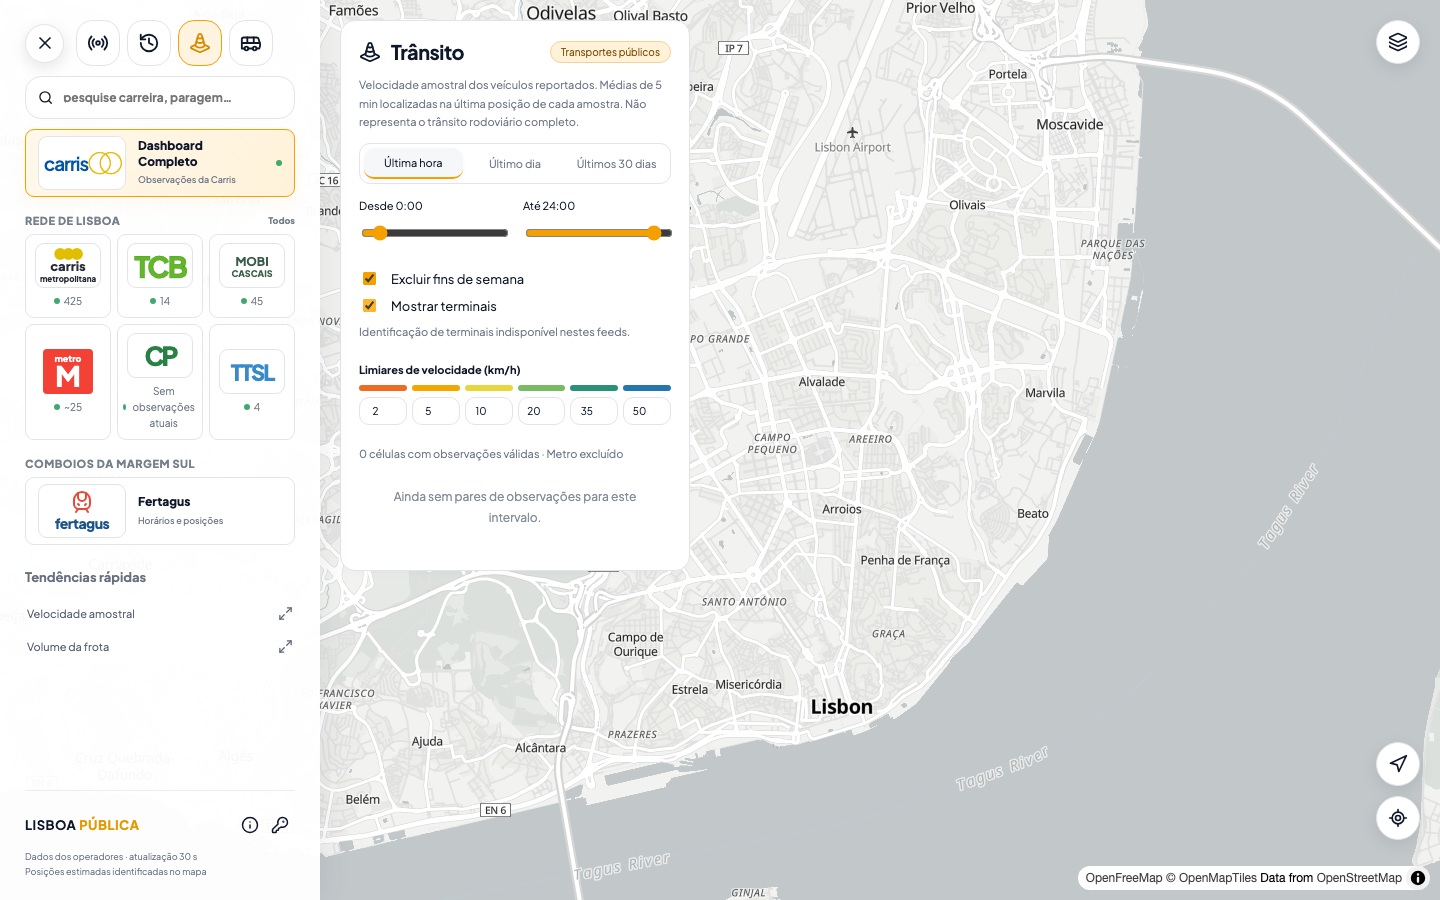
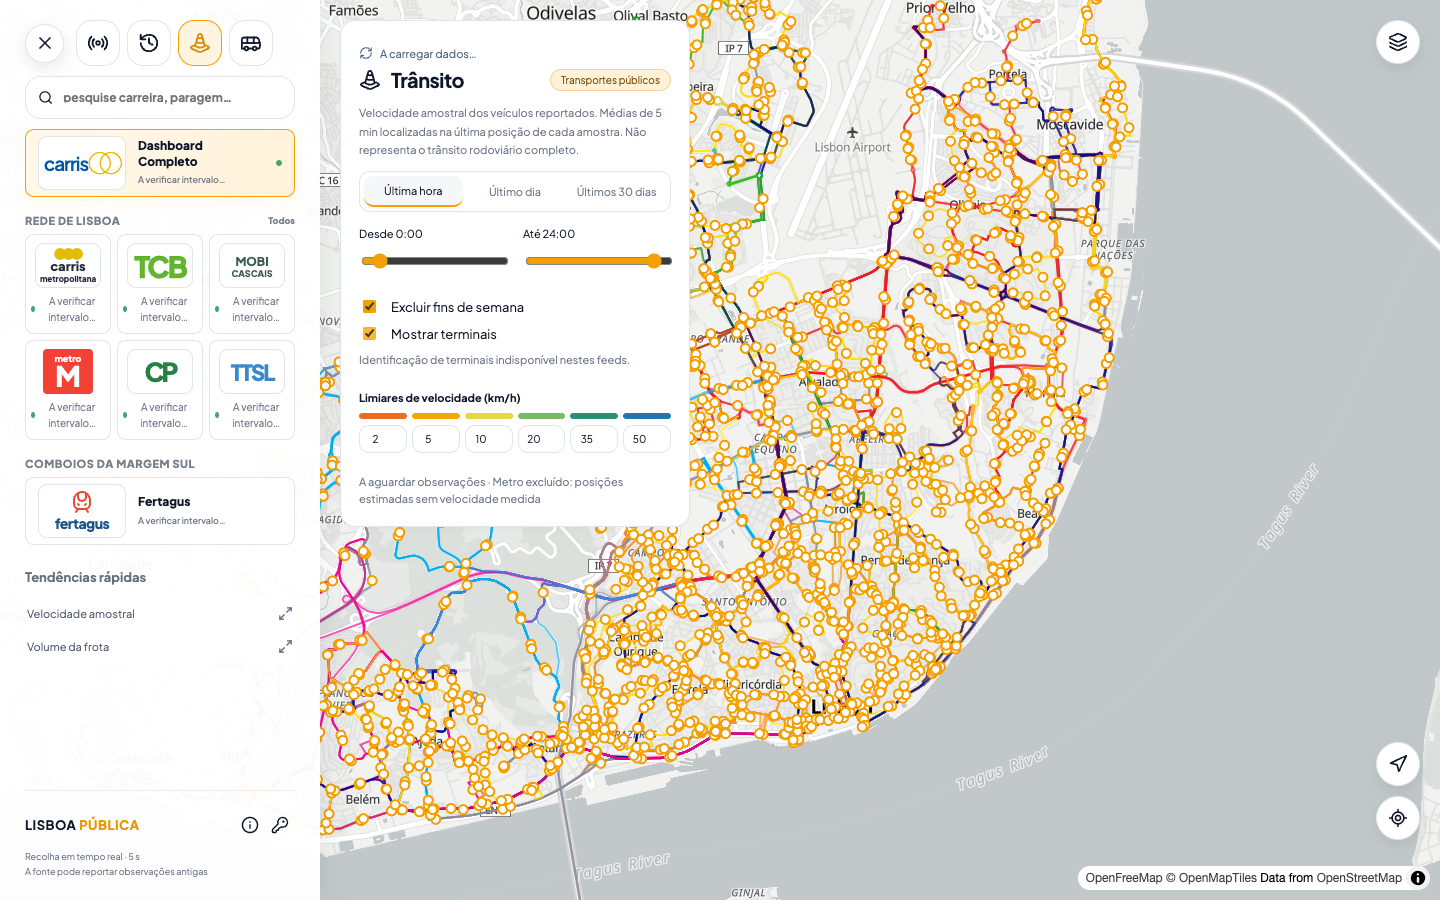
docs: record production availability and fleet acceptance
Motivation: retain reviewable evidence for the deployed defaults, source coverage and five-second collection changes.

Summary: record normal Maat approval, SQL and browser checks, full-source filled-cache memory, naturally finalized fleet metadata, and independent final acceptance; update production screenshots.

diff --git a/docs/VALIDATION.md b/docs/VALIDATION.md
@@ -132,3 +132,20 @@ Latest Postgres full race suite4.729s; Cockroach full race suite98.034s, then fo
 Browser checks are serialized after API health readiness. Early reruns exposed fixture assumptions from the prior disabled-overlay defaults, redundant-fetch expectations despite query-cache reuse, overlapping Playwright artifact directories and starting before cache restoration completed; those test setup issues were corrected. Arrival-window checks wait until initial data arrives before advancing the browser clock; pending initial requests are intentionally reused. Final browser verdict, normal Maat gate and deployment/resource review follow.
 
 Final serialized local browser suite: **13 passed in41.2s**, covering defaults/mode-gated overlays, delayed traffic loading, per-view gray states, raw fleet codes, cold-source/search errors, chart markers, refresh/filter isolation, real dashboard/search/schedule pagination, local scoped-key create/revoke, mobile viewport and advancing Metro arrival requests. All required local checks pass before the normal commit gate.
+
+
+Normal commit gate **passed**, scoped Go80/delta+6, zero critical regressions/suppressions; executable **d1289a6a43098b8c7db9fe9756dea3758dfa88e1** pushed and deployed with the existing Compose/shared Caddy/external verified-TLS Cockroach setup. Main resolved five initial Maat structural findings through cohesive helper extraction. Post-refactor Postgres full race35.748s, affected Cockroach race40.187s and vet passed; independent real quasar-alpha/xhigh review preserved code acceptance.
+
+Controlled full warm refresh: dashboard stopped, eight existing source-health freshness flags aged, image started with retained caches, and all eight official catalogs refreshed12:29:31–12:30:33UTC. Peak1199.5MiB <1280MiB, OOMfalse/restarts0. After over150s of uninterrupted faster publications/filled revision cache, current777.7MiB with the same peak. Public configuration verifies5s live,300s compact history,30days/application5GBguard and collecting. Twelve public API checks returned200, including eight committed operator-coverage rows and verified Metro predictions. Cloud range measurement588,808,092bytes/13750records.
+
+Actual public browser verifies Metro alone initially selected, vehicles/stops/Metro/bus layers all enabled, and Metro traffic operator visibly gray with estimated-position/no-speed explanation. No page errors. Live CM424vehicles include401 model/plate/type/propulsion values; a finalized CMvehicle record carries published typology3/propulsion2 alongside model and plate, with frozen fleet pagination preserved. Historical earlier missing fields remain unknown.
+
+Two initial production desktop runs timed out during screenshot/compositor work with SwiftShader CPU WebGL (60s and120s), while mobile and arrival checks passed and development-auth was skipped. The retry uses bundled full Chromium with ANGLE Metal (Apple M4Max renderer confirmed), the same assertions and original60s per-test limit, serialized. No API/TLS verification or product behavior was bypassed. Final browser result and next closed bucket evidence follow.
+
+
+Final production dashboard suite: **3 passed,1 intentional development-auth skip in30.6s**, with hardware ANGLE Metal and the original60s test limit. Main additionally captured model/type bars after rendering, with no page errors: [model distribution](acceptance/fleet-models.png), [published types](acceptance/fleet-types.png), [Metro traffic availability](acceptance/availability-traffic.png). Default overlays/selection and visible charts are represented in the refreshed desktop/mobile/history/fleet/traffic captures.
+
+The naturally finalized complete CM window **12:30–12:35UTC** contains449 reported vehicles,425 models/plates and424 published typology/propulsion values; coverage reports8659 valid speed samples. Its historical point contains722.626531km and21.317095km/h sample speed. Public fleet has_morefalse and revision s:1504:1790425800000000000:1790426100000000000 demonstrate committed-window data, without forced timestamps or synthetic observations. Latest filled-cache reading after~450s: current760.5MiB, peak1199.5MiB/max1280, healthy, zero OOM/restarts. A subsequent Cloud read measured440,841,606bytes and14527records before this final bucket flush; reclamation means range usage can decrease between reads. The5GB limit remains application-enforced; no Cloud hard cap is claimed.
+
+
+The separate existing real **quasar-alpha/xhigh final reviewer recommends final acceptance of deployed d1289a6**, with no remaining code/deployment blockers after source refresh, filled-cache memory, production screenshots/browser checks and complete finalized fleet bucket evidence. Main confirms all five requested corrections: honest unsupported history metrics and loading/contextual gray states, verified published fleet fields, all mode-gated overlays enabled, Metro-only initial selection and evidence-based five-second polling with enforced global/per-source budgets/cooldowns. Public UI/generated spec/scoped-key semantics/one collector/storage settings remain verified. Documentation/evidence commits do not change the executable VERSION.

diff --git a/docs/MAAT.md b/docs/MAAT.md
@@ -13,3 +13,6 @@ The first normal commit attempt encountered a gate implementation error: an exis
 The storage amendment's normal commit gate passed with scoped Go score70 (delta+5 versus its analyzed baseline), no critical regressions and zero suppressions. A preceding attempt was blocked for new return-count, startup complexity and file-cohesion findings; main separated database-pool configuration, guarded initialization and storage-budget decisions by their actual responsibilities, then retried through the normal hook. The absolute95 target is still not claimed to pass. TypeScript remains separately checked.
 
 The CP/metrics/route-overlay amendment's normal gate passed at scoped Go score **74**, delta **+3** against its analyzed baseline, with no critical regressions and zero suppressions (commit adfa4c6). Two preceding attempts correctly blocked new shape parsing/simplification return-count and maintainability findings. Main extracted the actual parsing, geometry deviation/mask, response-cache admission and CM refresh responsibilities, preserving behavior under Postgres/Cockroach and browser checks. The configured absolute95 target remains unresolved; this is acceptance by the normal regression gate. The Caddy-only compression commit has no supported source-language changes and the normal hook skips analysis for that commit.
+
+
+The availability/fleet/polling amendment's normal commit gate passed at scoped Go score **80**, delta **+6** against baseline12d25a4, with no critical regressions and zero suppressions (commitd1289a6). The preceding attempt blocked five return-count/maintainability regressions. Main extracted committed-coverage querying/scanning, Metro publication, verified metadata merging and fleet normalization/search responsibilities, then repeated Postgres full race35.748s, affected Cockroach race40.187s and vet successfully. Independent quasar-alpha/xhigh review confirmed behavior and code acceptance were preserved. Normal hooks, pinned bundle and thresholds remain unchanged; the absolute95 target is not claimed. TypeScript/compiler/browser checks remain separate.

diff --git a/docs/PLAN-availability.md b/docs/PLAN-availability.md
@@ -28,3 +28,8 @@ Staging uses the existing collector under historyMu while publication holds Publ
 Increase retained immutable cache versions from24 to256 (about140s at nine publications/5s; versions still expire after5min). Static geometry remains shared across versions; measure full warm refresh plus settled memory. Test later vehicle/shape pages against a frozen revision after at least60s-equivalent faster publications, and ensure changedfilters do not inherit data.
 
 The30s durability bound includes successful and failed source-health states for all operators and directMetro: memory publishes status immediately, durable attempts are scheduled no more often than30s even during upstream outages/database failures. A failed durable attempt keeps staged collector state for the next flush; only committed proposals replace collector state. History/coverage read committed snapshots only. Paused/unavailable stage does not grow memory, pending entry caps bound prolonged failure; existing pause cleanup remains authoritative. UI states first-bucket closure5min +90s +up to30s durableflush; live5s is collection cadence, not a freshness guarantee.
+
+
+## Completion
+
+Main completed implementation and validation. Normal Maat gate passed at80/delta+6 with no regressions/suppressions; source revisiond1289a6 pushed and deployed. Both SQL backends, generated code, TS build and13 local browser checks pass; actual production browser3pass/1development-authskip, all8officialsources refreshed, zeroOOM/restarts, peak1199.5MiB/max1280 after filled revisions. Complete finalized CMbucket verifies published fields. Separate existing real quasar-alpha/xhigh plan and final reviews recommend acceptance; main confirms all five requirements met. See [validation](VALIDATION.md) and [Maat](MAAT.md) for evidence and explicit limits.
